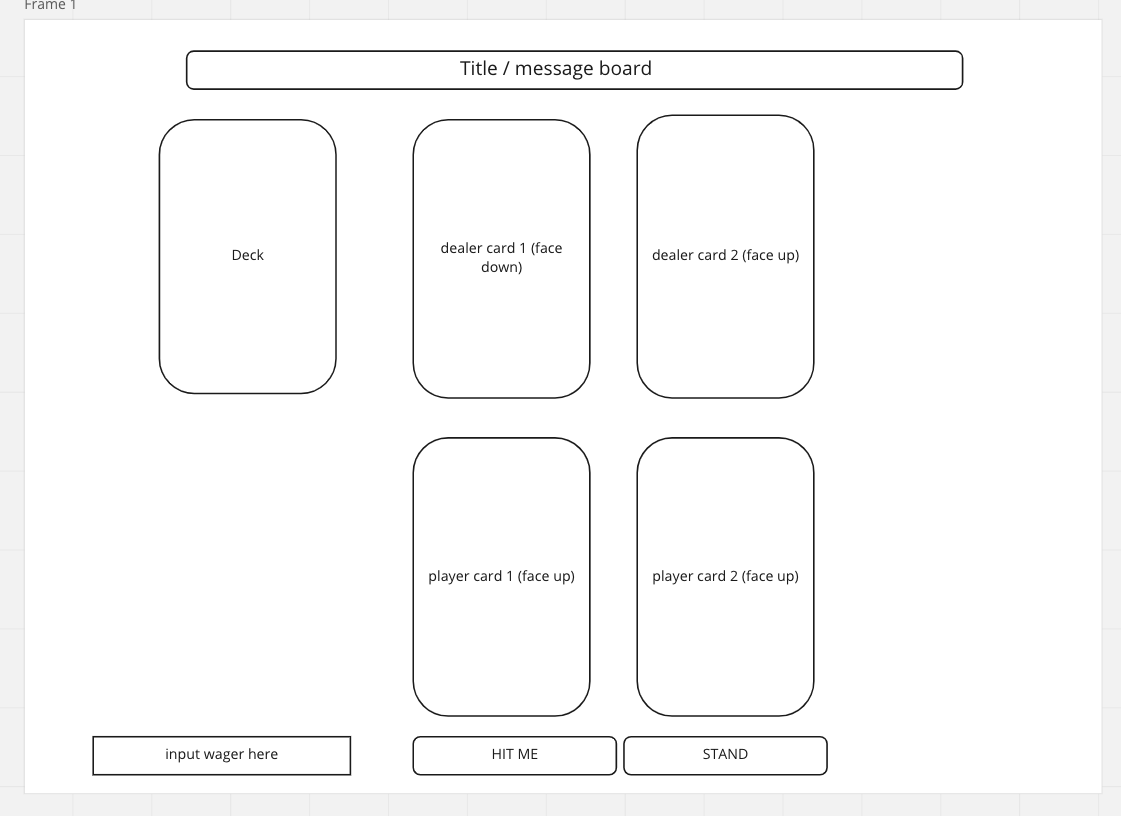
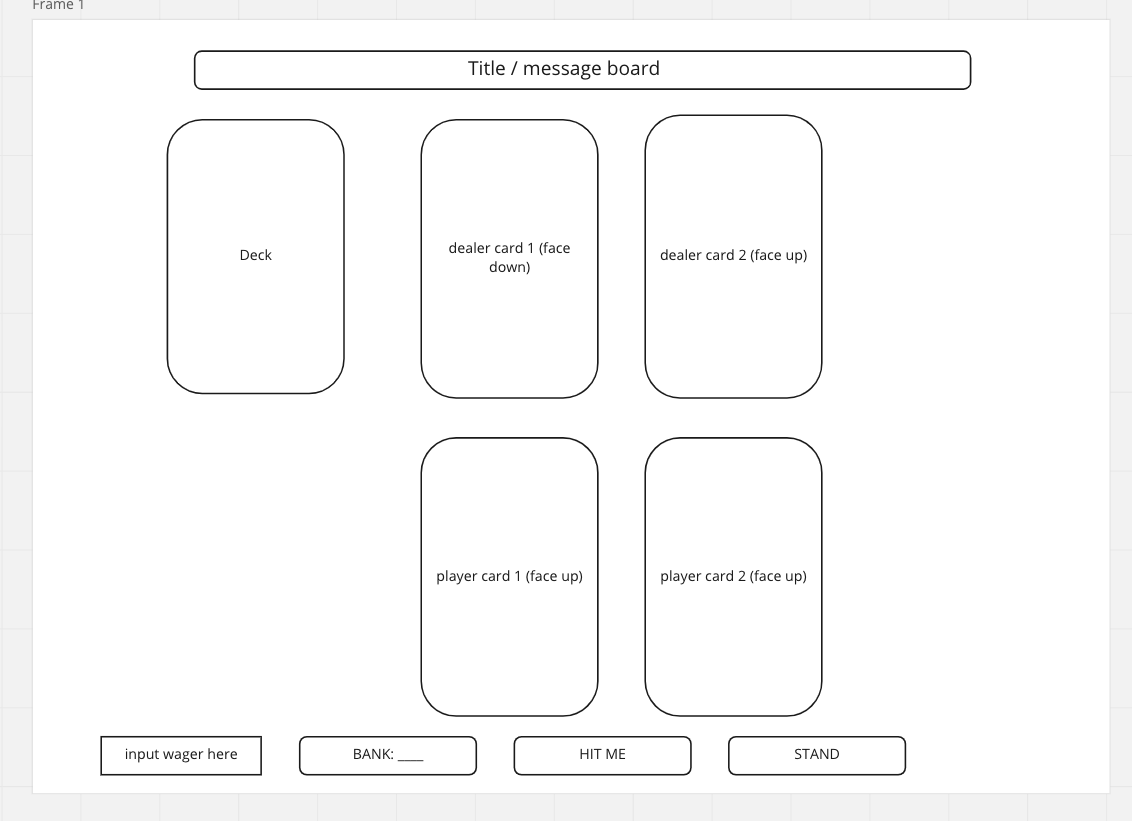
first draft of finished readme, formatted and everything

diff --git a/README.md b/README.md
@@ -1,173 +1,218 @@
 
-User Stories
+# 														Blackjack
 
-	Version 1
+> "Money won is twice as sweet as money earned.” -Fast Eddie Felson, *The Color of Money*
 
-		1. As a user, I want to have a standard 52 card deck to play with.
+##														  Rules
 
-			-this will be created using js classes:
+Blackjack is a betting game played with a 52-card Standard deck; a mainstay at every casino around the world. The object of the game is simple: beat the dealer without your hand value exceeding 21 points. First, a wager is submitted. Then, each player at the table is dealt two cards face up, while the dealer is dealt one card face up, one card face down. In person, the game is played on a table with 7 seats. For this game, we will be working with 1 player vs the dealer. This is a wireframe of the initial game-state:
 
-				-create a 'deck' class whose constructor takes 1 parameter: cards.
+![Initial game-state after cards are dealt](/README-pics/BlackJackWireframe.png)
 
-				-create a separate class for 'card' which takes 2 parameters: suit and value.
+If a player is dealt a hand with a value of 21 (10, J, Q, or K plus A), they have "Blackjack", and immediately win 1.5x their wager. In turn order, each player decides whether or not they want to add a card to their hand, or "Hit". If a player chooses to "Hit", a new card is dealt to their hand. 
 
-			-create an array of the 4 different suits and store it in a constant.
+![Game Board After a Hit](/README-pics/GameBoardAfterHit.png)
 
-				-const suits = [the 4 suits]
+If the hand goes over 21, the player has a "bust" and loses immediately. If the hand is still worth less than 21, the player can choose to "hit" again or "stand". Once each player's turn has ended, the dealer will flip up their face-down card and play their hand in the same fashion. If the dealer has a "bust", everyone who is still in the game wins 2x their wager. If not, Then those who have a hand value higher than the dealer's hand win 2x their wager. If there is a tie, the wager is returned.
 
-			-create an array of the 13 different card values and store it in a constant.
+##                                                    User Stories
 
-				-const values [13 card values Ace thru King]
+###	Version 1
 
-			-write a function that will implement .flatmap() and .map() to assign all the values a suit and return 1 array of 52 cards:
+1. As a user, I want to have a standard 52 card deck to play with.
 
-				newDeck() {
-					return flatmap of the values of a map of the suits of an instance of a new Card
+   - create a 'deck' class whose constructor takes 1 parameter: cards.
+
+   - create a separate class for 'card' which takes 2 parameters: suit and value.
+
+   - create an array of the 4 different suits and store it in a constant.
+
+			suits = [the 4 suits]
+
+   - create an array of the 13 different card values and store it in a constant.
+  
+			values = [13 card values Ace through King]
+
+   - write a function that will assign all the values a suit and return 1 array of 52 cards. This can be put inside an initialize function:
+
+			newDeck() {
+				for each suit, create a new instance of card with each value
+			}
+
+	- in the Deck constructor, set the cards parameter to equal the newDeck() function call:
+
+			class Deck {
+				constructor() {
+					these cards are equal to the newDeck cards
 				}
+			}
 
-			-in the Deck constructor, set the cards parameter to equal the newDeck() function call:
+	- deck.cards should now log a deck of 52 cards each value with it's own unique suit.
 
-				class Deck {
-					constructor(cards = newDeck()) {
-						these cards are equal to the newDeck cards
-					}
+	- this also allows for the deck to utilize different cards (eg Pinochle rules), although that will not be used in this game.
+
+2. As a user, I want the deck to shuffle before each round.
+
+	- implement the *durstenfeld shuffle algorithm* on the created deck and store this in a class method:
+
+			shuffle() {
+				for every card in the deck array in descending order {
+					store a random integer value inside a variable and set the index of the card to that value
+					re-order the cards by index
 				}
+			}
 
-			-deck.cards now logs a deck of 52 cards each with it's own unique suit.
+	- this will be stored in a variable inside the initialize function that will be called on load, so the game starts with a freshly shuffled deck each round:
 
-			-this also allows for the deck to utilize different cards (eg Pinochle rules), although that will not be used in this game.
+			const initialize() {
+				create a new instance of Deck stored in a constant
+				shuffle the deck using the .shuffle() method
+			}
 
-		2. As a user, I want the deck to shuffle before each round.
+3. As a user, I want the dealer to deal cards to themself and the player.
 
-			-implement the durstenfeld shuffle algorithm on the created deck and store this in a class method:
+	- both hands will be stored in arrays: dealerHand and playerHand, declared globally.
 
-				shuffle() {
-					for every card in the deck array in descending order {
-						store a random integer value inside a variable and set the index of the card to that value
-						re-order the cards by index
-					}
-				}
+	- there will be a class method called dealCards that will simultaneously remove the first index from the deck and push it into the respective hand:
 
-			-this will be stored in a variable inside the initialize function that will be called on load, so the game starts with a freshly shuffled deck each round:
+			dealCards() {
+				remove the first index from cards.deck
+				add that index to playerHand
+				remove the first index from cards.deck
+				add that index to dealerHand
+				etc until both hands have 2 cards stored in their arrays
+			}
 
-				const initialize() {
-					create a new instance of Deck stored in a constant
-					shuffle the deck using the .shuffle() method
-					log the shuffled deck to the console
-				}
+4. As a user, I want working buttons for my options (hit, stand).
 
-		3. As a user, I want the dealer to deal cards to themself and the player.
+	- these will be hardcoded into the html and stored globally as 'hitButton' and 'standButton' using getElementByID().
 
-			-both hands will be stored in arrays: dealerHand and playerHand, declared globally.
+	- the hit button will trigger a hit() class method on click:
 
-			-there will be a class method called dealCards that will simultaneously remove the first index from the deck and push it into the respective hand:
-
-				dealCards() {
+			on hitButton click {
+				hit() {
 					remove the first index from cards.deck
 					add that index to playerHand
-					remove the first index from cards.deck
-					add that index to dealerHand
-					etc until both hands have 2 cards stored in their arrays
+				}
+			}
+
+	- we will need two variables declared globally to store the userHandValue and dealerHandValue.
+
+	- because the value key of each card is a string, we will need a globally declared object that reassigns the value to a number for computational purposes. We will call this valueConverter. It will give the numbered cards their face value, the face cards a value of 10, and the Ace a value of 11 (for now).  
+
+	- the value of each hand will be determined by another function: computeHandValue.
+
+			function computeHandValue(hand) {
+				the value equals zero
+				for each index of hand, value equals itself plus that index
+				return the value
+			}
+
+	- since the "Ace" card can hold the value of either 11 or 1, the game will need to determine which value is more useful. We will assume that the Ace is always worth 11 unless the hand is over 21, in which case it will be worth 1.
+
+	- the stand button will trigger a compareHands function that will compare playerHandValue to dealerHandValue:
+
+			function compareHands {
+				if playerHandValue is greater than dealerHandValue
+				update message board to display "You Won!"
+			    else update message board to display "The house always wins."
+			}
+
+5. As a user, I want to know if I have "Blackjack"
+
+	- once the player's hand is dealt, we will run the computeHandValue function to see if the player was dealt a hand with "BlackJack" or 21 pts.
+
+			computeHandValue() {
+				if playerHandValue is strictly equal to 21
+				message board will display "BlackJack, you win!"
+				bank will equal itself plus 1.5 times the wager
+			}
+
+6. As a user, I want to know when I bust.
+
+	- A "bust" occurs when the player "hits" and the value of their hand goes over 21. Because the Ace can have a value of 1 if your hand is over 21, we will need to take this into account when there is a "bust". We can assume that if the player has a hand that contains an "Ace" AND is over 21, they will choose to reassign the "Ace" value to 1, and the game will have to do that for them.
+
+	- We will have a function called checkBust() that will check if the userHand has a value over 21. We will use our computeHandValue function from before. Inside we'll also use a conditional to check if there is an "ace":
+
+			function checkBust {
+				compute the value of the user's hand
+				IF it is over 21 AND there is an card with value 11 in it
+					change the value of that card from 11 to 1
+			}
+
+	- checkBust will go inside the event listener associated with the "Hit" button. If a bust occurs, we'll update the innerHTML of the message board to say "BUST".
+
+7. As a user, I want to be able to see how much money I have to play with.
+
+	- we will have a global variable called "bank", initialized to an arbitrary number (let's say 100). This number will be changed in the controller when a wager is submitted and when the user wins a round.
+
+8. As a user, I want to have the ability to submit a wager.
+
+	- we will hardcode a button and textbox into the html.
+
+	- both button and textbox will be stored in global variables.
+
+	- there will be an event listener for a click, which will update a global variable called 'wager' in the controller:
+
+			on submit wager button click {
+				wager will equal value typed into textbox
 				}
 
-		4. As a user, I want working buttons for my options (hit, stand).
-
-			-these will be hardcoded into the html and stored globally as 'hitButton' and 'standButton' using getElementByID().
-
-			-the hit button will trigger a hit() class method on click:
-
-				on hitButton click {
-					hit() {
-						remove the first index from cards.deck
-						add that index to playerHand
-					}
-				}
-
-			-we will need two variables declared globally to store the userHandValue and dealerHandValue.
-
-			-because the value key of each card is a string, we will need a globally declared object that reassigns the value to a number for computational purposes. We will call this valueConverter. It will give the numbered cards their face value, the face cards a value of 10, and the Ace a value of 11 (for now).  
-
-			-the value of each hand will be determined by another function: computeHandValue.
-
-				-since the "Ace" card can hold the value of either 11 or 1, the game will need to determine which value is more useful:
-
-				function computeHandValue(hand) {
-					the value equals zero
-					for each index of hand, value equals itself plus that index
-					return the value
-				}
-
-			-the stand button will trigger a compareHands function that will compare playerHandValue to dealerHandValue:
-
-				function compareHands {
-					if playerHandValue is greater than dealerHandValue
-					update message board to display "You Won!"
-				} else update message board to display "The house always wins."
-
-		5. As a user, I want to know when I bust.
-
-			-a "bust" occurs when the player "hits" and the value of their hand goes over 21. Because the Ace can have a value of 1 if your hand is over 21, we will need to take this into account when there is a "bust". We can assume that if the player has a hand that contains an "Ace" AND is over 21, they will choose to reassign the "Ace" value to 1, and the game will have to do that for them.
-
-			-we will have a function called checkBust() that will check if the userHand has a value over 21. We will use our computeHandValue function from before. Inside we'll also use a conditional to check if there is an "ace":
-
-				function checkBust {
-					compute the value of the user's hand
-					IF it is over 21 AND there is an card with value 11 in it
-						change the value of that card from 11 to 1
-				}
-
-			-checkBust will go inside the event listener associated with the "Hit" button. If a bust occurs, we'll update the innerHTML of the message board to say "BUST".
-
-		6. As a user, I want to be able to see how much money I have to play with.
-
-			-we will have a global variable called "bank", initialized to an arbitrary number (let's say 100). This number will be changed in the controller when a wager is submitted and when the user wins a round.
-
-		7. As a user, I want to have the ability to submit a wager.
-
-			-we will hardcode a button and textbox into the html.
-
-			-both button and textbox will be stored in global variables.
-
-			-there will be an event listener for a click, which will update a global variable called 'wager' in the controller:
-
-				on submit wager button click {
-					wager will equal value typed into textbox
-					}
-
-			-in the controller, when the user wins, we will set the bank to equal itself + (wager x2)
+	- in the controller, when the user wins, we will set the bank to equal itself + (wager x2)
 		
-		8. As a user, I want to see the dealer's cards (1 up, 1 down)
+9. As a user, I want to see the dealer's cards (1 up, 1 down)
 
-			-we will use a div for each card, and the first two cards will be shown when the user presses the "begin" button.
+	- we will use a div for each card, and the first two cards will be shown when the user presses the "begin" button.
 
-			-the cards will have basic CSS properties that will make them look like rectangles with rounded edges:
+	- the cards will have basic CSS properties that will make them look like rectangles with rounded edges:
 
-				1 pixel solid black border
-				border radius of .4rem
-				flex
-				centered text
-				3rem font size
+			1 pixel solid black border
+			border radius of .4rem
+			flex
+			centered text
+			3rem font size
 
-			-all cards will have the same class
+	- all cards will have the same class
 
-			-for now, we will leave the first div devoid of text to represent a face-down card. The second div will contain the text of card.value ("2", "J", "A", etc)
+	- for now, we will leave the first div devoid of text to represent a face-down card. The second div will contain the text of card.value ("2", "J", "A", etc)
 
-		9. As a user, I want to see my cards (2 up).
+10. As a user, I want to see my cards (2 up).
 
-			-just like with the dealer's cards, we will have two divs hardcoded into the html that will initialize when the cards are dealt
+	- just like with the dealer's cards, we will have two divs hardcoded into the html that will initialize when the cards are dealt
 
-			-with every hit() call, we will add a new div that represents a card dealt from the deck:
+	- with every hit() call, we will add a new div that represents a card dealt from the deck:
 				
-				create element div
-				give it the same class as the other cards
-				change div's inner text to card.value
-				append div
+			create element div
+			give it the same class as the other cards
+			change div's inner text to card.value
+			append div
 				
+11. As a user, I want the dealer to play their hand.
+
+	- if the player doesn't bust, and the dealer's hand is shown to be less than 17, the dealer needs to hit. This can be another function, called after the player stands.
+				
+			function playDealerHand {
+				show the dealer's face-down card
+					if dealerHand is less htan 17
+						dealerHand hit()
+			}
+							
 		
-	Version 2
-		I want to have the option to double down
-		I want to have the option to split my hand
-		I want the cards to look like real playing cards
-	Version 3
-		I want to implement a multiplayer option
+###	Version 2
+
+1. I would like the cards to have a Dune theme
+
+2. I want to have the option to double down
+
+3. I want to have the option to split my hand
+
+4. I want the cards to look like real playing cards
+
+5. I would like sounds to play when I win the game
+		
+6. I would like sounds to play when I lose the game
+
+###	Version 3
+		
+1. I want to implement a multiplayer option
         
